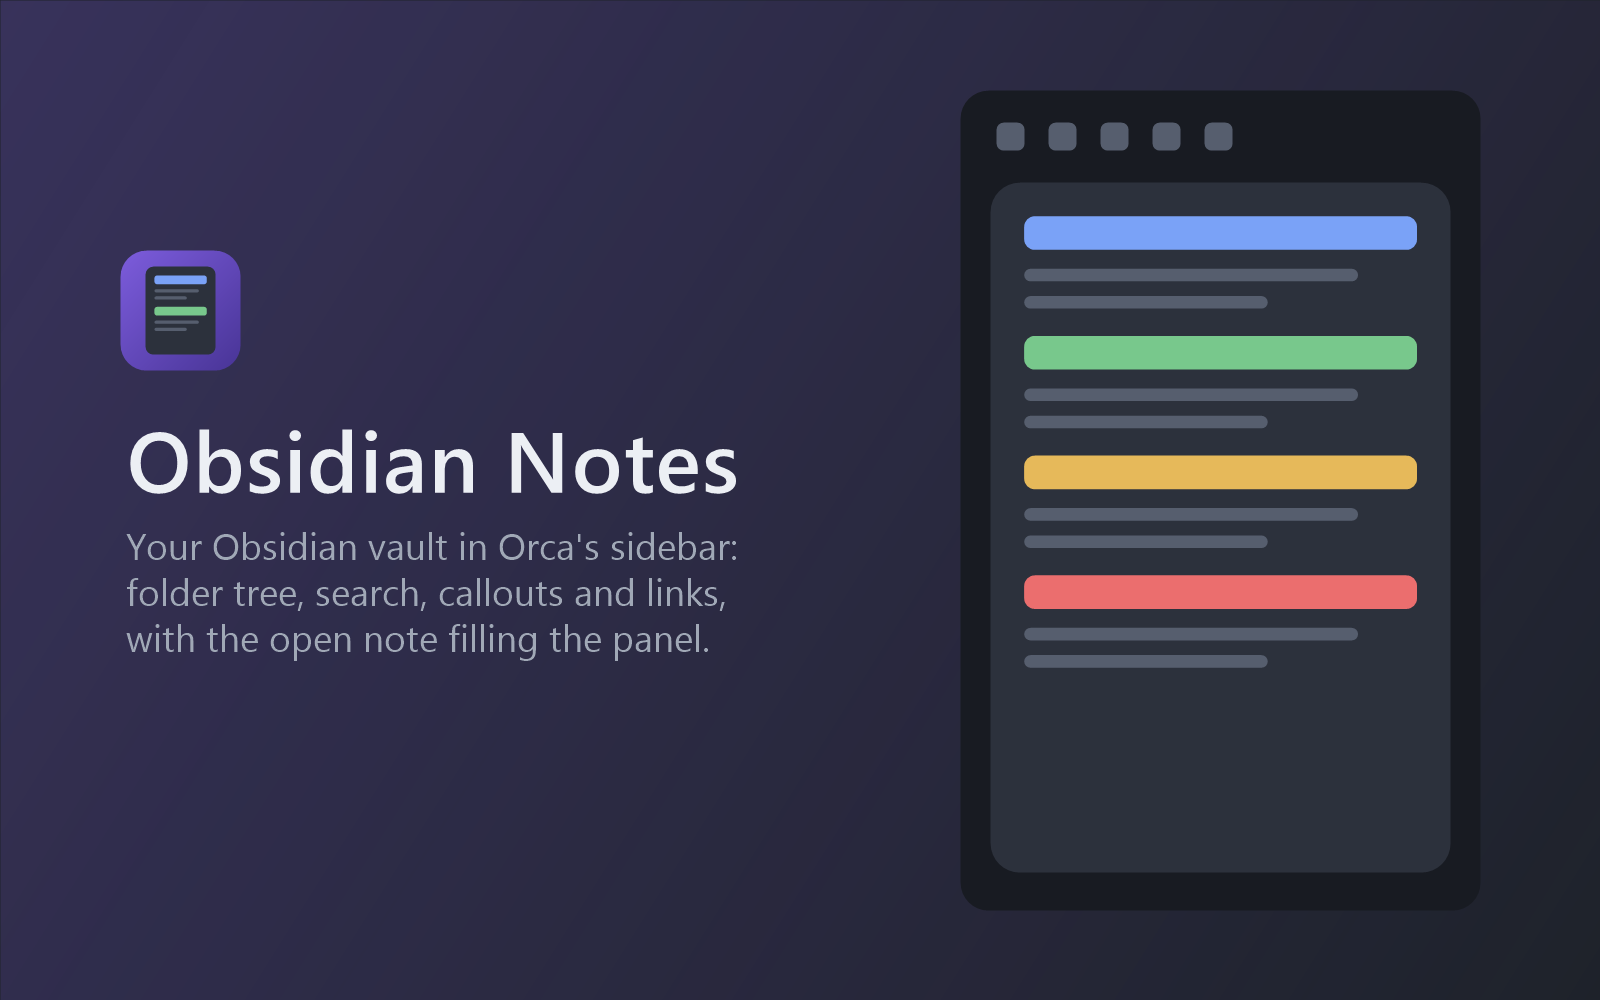
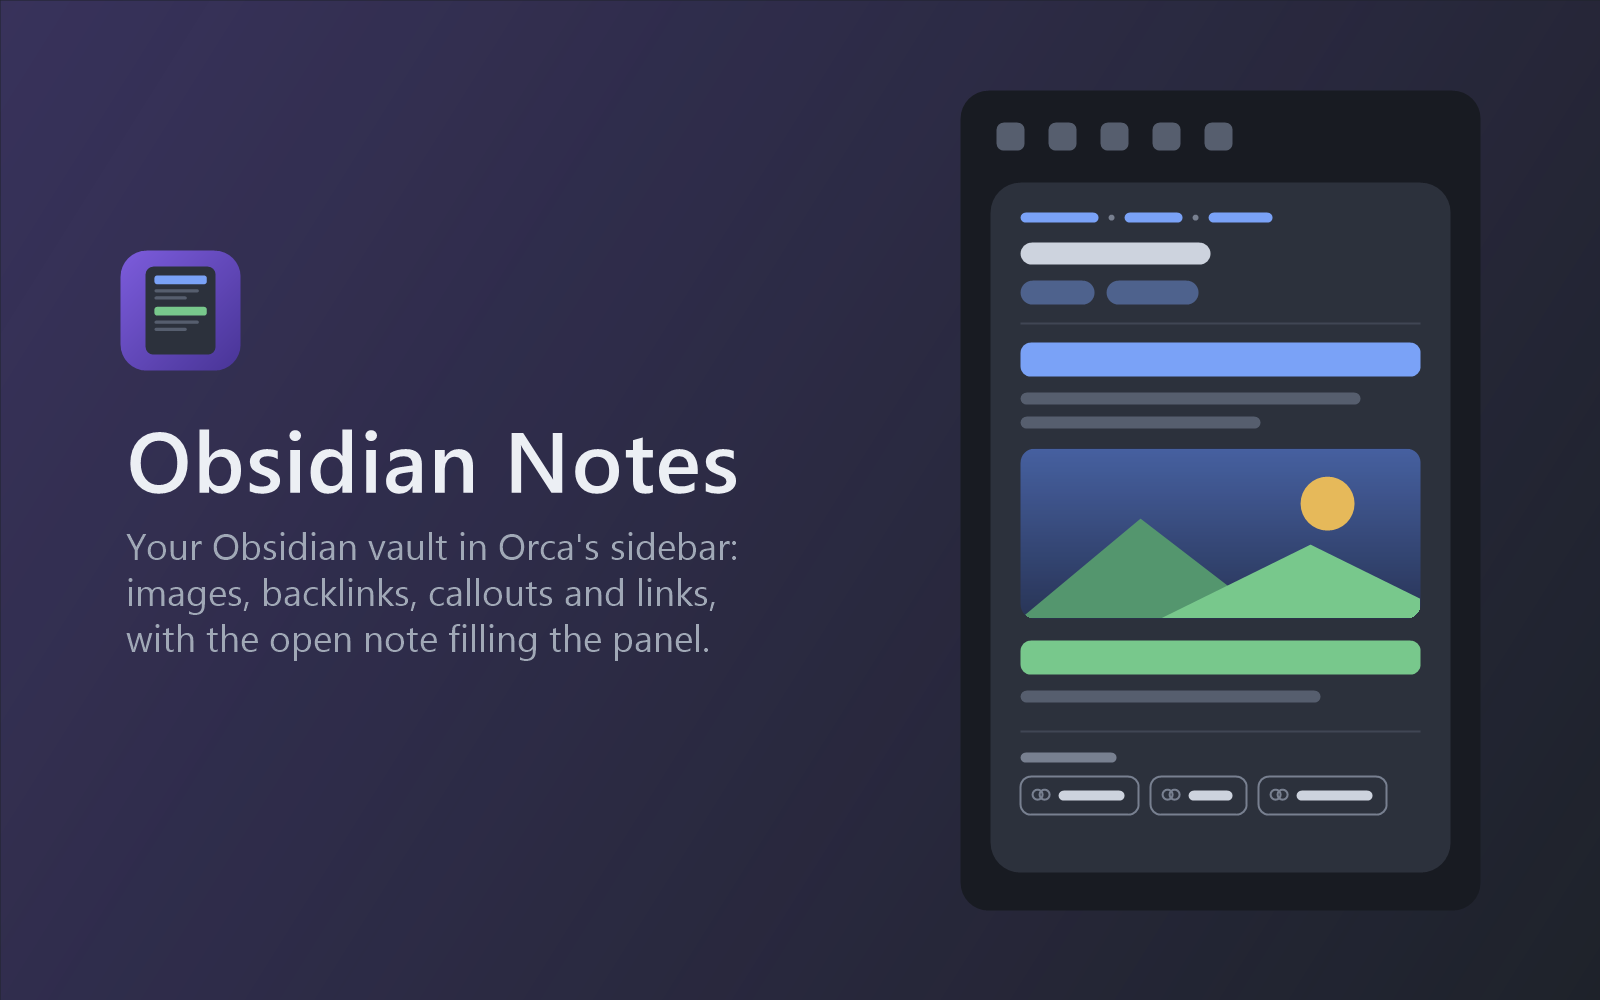
Show images and backlinks on the cover
## Qué cambia

- La portada (`assets/cover.png`) dibuja el panel con lo que trae la 0.2.0: la cabecera de la nota (migas, título y etiquetas), una sección, una imagen dentro de la nota, otra sección y la fila de backlinks.
- El texto de la izquierda pasa a «images, backlinks, callouts and links».
- `assets/social-preview.png` se vuelve a dibujar con la misma portada.
- El texto alternativo de la portada, en `orca-plugin.json` y en el README, describe lo que se ve ahora.

## Por qué

La portada solo enseñaba bandas de color y no reflejaba las imágenes ni los backlinks que añadió la 0.2.0.

## Cómo comprobarlo

- `powershell -NoProfile -File assets/draw-images.ps1` vuelve a generar exactamente estas imágenes.
- Mirar `assets/cover.png` en el README de la rama.
- Después del merge, subir a mano `assets/social-preview.png` en Settings → Social preview.

Changed region(s): [[0.625, 0.186, 0.9062, 0.713], [0.0625, 0.558, 0.4688, 0.62], [0.625, 0.744, 0.875, 0.806]]

diff --git a/README.md b/README.md
@@ -8,7 +8,7 @@
 [![Sin compilación](https://img.shields.io/badge/TypeScript-sin%20compilaci%C3%B3n-3178C6?style=for-the-badge&logo=typescript&logoColor=white)](#-cómo-funciona)
 [![Obsidian](https://img.shields.io/badge/Lee-bóvedas%20de%20Obsidian-7C3AED?style=for-the-badge&logo=obsidian&logoColor=white)](https://obsidian.md/)
 
-<img src="assets/cover.png" alt="El nombre del plugin junto a un panel lateral con una nota cuyas secciones abren con bandas de color" width="820">
+<img src="assets/cover.png" alt="El nombre del plugin junto a un panel lateral con una nota: sus etiquetas, secciones con bandas de color, una imagen y las notas que la enlazan" width="820">
 
 </div>
 
